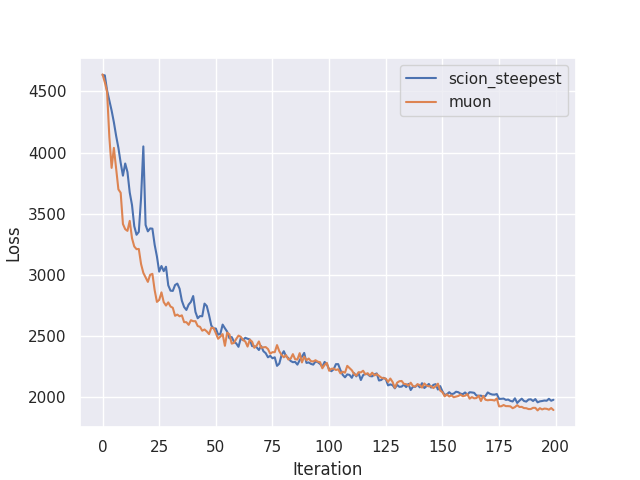
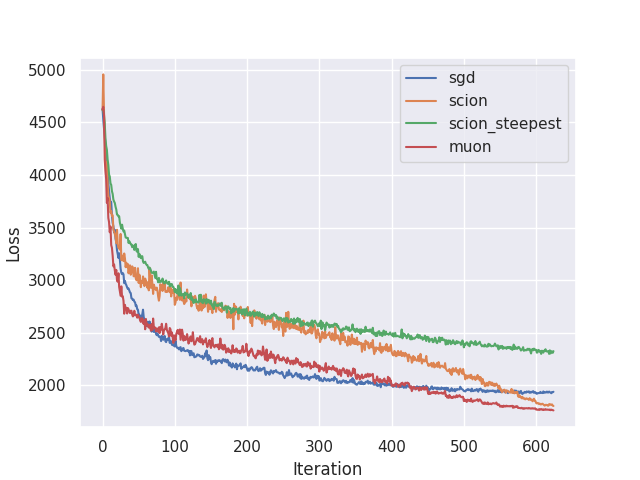
checkpoint before fix buf and grad mismatch

diff --git a/examples/airbench/airbench_scion.py b/examples/airbench/airbench_scion.py
@@ -363,7 +363,7 @@ def evaluate(model, loader, tta_level=0):
 #                Training                  #
 ############################################
 
-def main(run, model_trainbias, model_freezebias, extra_params, optimizer_name="scion_steepest", radius=8.0):
+def main(run, model_trainbias, model_freezebias, extra_params, optimizer_name="scion_steepest", radius=8.0, constant_ratio=0.5, do_plot=False):
     batch_size = hyp['opt']['batch_size']
     epochs = hyp['opt']['train_epochs']
     #momentum = hyp['opt']['momentum']
@@ -440,16 +440,26 @@ def main(run, model_trainbias, model_freezebias, extra_params, optimizer_name="s
 
             return torch.optim.lr_scheduler.LambdaLR(optimizer, lr_lambda)
 
-        # Make learning rate schedulers for all 5 optimizers
         def get_lr(step):
             return 1 - step / total_train_steps
-        scheduler_trainbias = torch.optim.lr_scheduler.LambdaLR(optimizer_trainbias, get_lr)
-        scheduler2_trainbias = torch.optim.lr_scheduler.LambdaLR(optimizer2_trainbias, get_lr)
-        scheduler_freezebias = torch.optim.lr_scheduler.LambdaLR(optimizer_freezebias, get_lr)
 
-        # scheduler_trainbias = custom_scheduler(optimizer_trainbias, warmup_steps=int(0.3 * total_train_steps), constant_steps=int(0.4 * total_train_steps),  total_steps=total_train_steps)
-        # scheduler2_trainbias = custom_scheduler(optimizer2_trainbias, warmup_steps=int(0.3 * total_train_steps), constant_steps=int(0.4 * total_train_steps),  total_steps=total_train_steps)
-        # scheduler_freezebias = custom_scheduler(optimizer_freezebias, warmup_steps=int(0.3 * total_train_steps), constant_steps=int(0.4 * total_train_steps),  total_steps=total_train_steps)
+        if optimizer_name == "scion_steepest":
+            # scheduler_trainbias = torch.optim.lr_scheduler.LambdaLR(optimizer_trainbias, get_lr)
+            # scheduler2_trainbias = torch.optim.lr_scheduler.LambdaLR(optimizer2_trainbias, get_lr)
+            # scheduler_freezebias = torch.optim.lr_scheduler.LambdaLR(optimizer_freezebias, get_lr)
+
+            warmup_steps = 2 * len(train_loader)
+            constant_steps = int(constant_ratio * total_train_steps)
+
+            scheduler_trainbias = custom_scheduler(optimizer_trainbias, warmup_steps=warmup_steps, constant_steps=constant_steps,  total_steps=total_train_steps)
+            scheduler2_trainbias = custom_scheduler(optimizer2_trainbias, warmup_steps=warmup_steps, constant_steps=constant_steps,  total_steps=total_train_steps)
+            scheduler_freezebias = custom_scheduler(optimizer_freezebias, warmup_steps=warmup_steps, constant_steps=constant_steps,  total_steps=total_train_steps)
+
+        else:
+            scheduler_trainbias = torch.optim.lr_scheduler.LambdaLR(optimizer_trainbias, get_lr)
+            scheduler2_trainbias = torch.optim.lr_scheduler.LambdaLR(optimizer2_trainbias, get_lr)
+            scheduler_freezebias = torch.optim.lr_scheduler.LambdaLR(optimizer_freezebias, get_lr)
+
 
 
     else:
@@ -497,6 +507,7 @@ def main(run, model_trainbias, model_freezebias, extra_params, optimizer_name="s
 
     loss_history = []
     dual_norm_history = []
+    precond_norm_history = []
 
 
     for epoch in range(ceil(epochs)):
@@ -524,6 +535,7 @@ def main(run, model_trainbias, model_freezebias, extra_params, optimizer_name="s
         starter.record()
 
         dual_norm_epoch = 0.
+        precond_norm_epoch = 0.
 
         model.train()
         for inputs, labels in train_loader:
@@ -537,13 +549,15 @@ def main(run, model_trainbias, model_freezebias, extra_params, optimizer_name="s
                 opt.step()
                 sched.step()
                 if isinstance(opt, ScionSteepest):
-                    dual_norm_epoch += opt.preconditioner_norm.item()
+                    precond_norm_epoch += opt.preconditioner_norm.item()
+                    dual_norm_epoch += opt.dual_norm.item()
 
             current_steps += 1
             if current_steps >= total_train_steps:
                 break
 
         dual_norm_history.append(dual_norm_epoch / len(train_loader))
+        precond_norm_history.append(precond_norm_epoch / len(train_loader))
 
 
         ender.record()
@@ -565,12 +579,24 @@ def main(run, model_trainbias, model_freezebias, extra_params, optimizer_name="s
     #  TTA Evaluation  #
     ####################
 
-    if optimizer_name == "scion_steepest":
-        plt.plot(range(len(dual_norm_history)), np.array(dual_norm_history))
-        plt.xlabel("Epoch")
-        plt.ylabel("Value")
-        plt.title("Preconditioner norm value")
-        plt.savefig("./plots/precond_norm.png")
+    if optimizer_name == "scion_steepest" and do_plot:
+        fig, (ax1, ax2) = plt.subplots(1, 2, figsize=(12, 4))
+        
+        epochs_range = range(len(dual_norm_history))
+        
+        ax1.plot(epochs_range, dual_norm_history)
+        ax1.set_xlabel("Epoch")
+        ax1.set_ylabel("Value")
+        ax1.set_title("Dual norm")
+        
+        ax2.plot(epochs_range, precond_norm_history)
+        ax2.set_xlabel("Epoch")
+        ax2.set_ylabel("Value")
+        ax2.set_title("Preconditioner norm")
+        
+        plt.tight_layout()
+        plt.savefig(f"./plots/dual_and_precond_norm_stepratio.png")
+        plt.clf()
 
     starter.record()
     tta_val_acc = evaluate(model, test_loader, tta_level=hyp['net']['tta_level'])
@@ -627,8 +653,8 @@ if __name__ == "__main__":
             return acc
         
         #for log2lr in np.linspace(-9, 0, 10):
-        log2lr =math.log2(0.05)
-        momentum = 0.6
+        log2lr = math.log2(0.05)
+        momentum = 0.9 # 0.6
 
 
         sgd_params = {
@@ -643,8 +669,9 @@ if __name__ == "__main__":
 
         }
         scion_steepest_params = {
-            "lr":5*1e-4,
-            "momentum": momentum
+            "lr":1e-5,
+            "momentum": momentum,
+            "eps":1e-6
 
         }
 
@@ -654,19 +681,34 @@ if __name__ == "__main__":
             "scion_steepest":scion_steepest_params
         }
 
-        for optim in optimizers.keys():
+        epsilons = [1]
+        betas = [0.1 * i for i in range(10)]
 
-            print(f"{'='*30} {optim} {'='*30}")
-            accs, loss_history = main(1, model_trainbias, model_freezebias, extra_params=optimizers[optim], optimizer_name=optim)
+        reset_values = [25, 50, 100, 250, 500, 1000]
 
-        #     plt.plot(range(len(loss_history)), loss_history, label=optim)
+        for reset_every in reset_values:
 
-        # loss_muon = np.load("./loss/muon_loss.npy")
+            optim = "scion_steepest"
+            eps = epsilons[0]
+            optimizers[optim]["eps"] =
+            optimizers[optim]["use_bias_correction"] = eps < 1
+            optimizers[optim]["reset_buffer_iter"] = reset_every
+            # optimizers[optim]["beta_LR"] = beta
+
+            print(f"{'='*30}, reset_every={reset_every} {'='*30}")
+            accs, loss_history = main(1, model_trainbias, model_freezebias, extra_params=optimizers[optim], optimizer_name=optim, constant_ratio=0.3, do_plot=False)
+
+            plt.plot(range(len(loss_history)), loss_history, label=f"T={reset_every}")
+            
+
+        # loss_muon = np.load("./loss/muon_loss_25.npy")
         # plt.plot(range(len(loss_muon)), loss_muon, label="muon")
 
-        # plt.legend(loc="upper right")
-        # plt.xlabel("Iteration")
-        # plt.ylabel("Loss")
-        # plt.savefig("./plots/loss.png")
+        # plt.title(r"$\beta$ value")
+        plt.legend(loc="upper right")
+        plt.xlabel("Iteration")
+        plt.ylabel("Loss")
+        plt.savefig(f"./plots/loss_reset_every.png")
+        plt.clf()
 
 

diff --git a/examples/airbench/scion_LR.py b/examples/airbench/scion_LR.py
@@ -256,7 +256,7 @@ class ScionSteepest(torch.optim.Optimizer):
         >>> optimizer = Scion(optim_groups, lr=2**-12, momentum=0.1)
     """
     def __init__(self, params, lr=1e-3, momentum=1.0, norm: str='Auto', norm_kwargs: dict=None, scale=1.0, unconstrained=False,
-    op="hadamard", beta_LR=0.999, order=4, eps=1e-8):
+    op="hadamard", beta_LR=0.999, order=4, eps=1e-8, use_bias_correction=True, reset_buffer_iter=250):
         if lr < 0.0:
             raise ValueError(f"Invalid learning rate: {lr}")
         if momentum < 0.0:
@@ -264,7 +264,7 @@ class ScionSteepest(torch.optim.Optimizer):
         if norm_kwargs is None:
             norm_kwargs = {}
         defaults = dict(lr=lr, momentum=momentum, scale=scale, unconstrained=unconstrained, norm=norm, norm_kwargs=norm_kwargs,
-        op=op, beta_LR=beta_LR, order=order, eps=eps)
+        op=op, beta_LR=beta_LR, order=order, eps=eps, use_bias_correction=use_bias_correction, reset_buffer_iter=reset_buffer_iter)
         super().__init__(params, defaults)
         self.dual_norm = 0.
         self.preconditioner_norm = 0.
@@ -280,25 +280,37 @@ class ScionSteepest(torch.optim.Optimizer):
             order = group["order"]
             beta_LR = group["beta_LR"]
             eps = group["eps"]
+            use_bias_correction = group["use_bias_correction"]
+            reset_buffer_iter = group["reset_buffer_iter"]
+
             for p in group['params']:
                 g = p.grad
                 if g is None:
                     continue
                 state = self.state[p]
 
-                if momentum != 1:
+                if "plot_name" not in state:
+                    state["plot_name"] = f"param_{id(p)}"
+
+
+                if "step" not in state:
+                    state["step"] = 0
+                state["step"] += 1
+                iter_number = state["step"]
+
+                if momentum != 0:
                     if 'momentum_buffer' not in state.keys():
                         state['momentum_buffer'] = torch.clone(g)
                     buf = state['momentum_buffer']
-                    buf.mul_(1-momentum).add_(g, alpha=momentum)
+                    buf.mul_(momentum).add_(g, alpha=1. - momentum)
                     g = buf
 
                 g_2d = to_2d(g).float()
 
                 if "L_buffer" not in state.keys():
                     if op == "hadamard":
-                        state["L_buffer"] =  torch.ones_like(g_2d)
-                        state["R_buffer"] = torch.ones_like(g_2d)
+                        state["L_buffer"] =  eps * torch.ones_like(g_2d)
+                        state["R_buffer"] =  eps * torch.ones_like(g_2d)
                     
                         # state["L_buffer"].copy_(g_2d * g_2d + 1e-4)
                     else: # dot
@@ -309,22 +321,29 @@ class ScionSteepest(torch.optim.Optimizer):
                 L = state["L_buffer"]
                 R = state["R_buffer"]
 
+
+                # reset buffer
+                if iter_number % reset_buffer_iter == 0:
+                    L = torch.min(L) * torch.ones_like(L)
+
                 self.preconditioner_norm = torch.linalg.norm(L, 'fro')
 
-                # D_inv = 1. / (L + 1e-4)
-                # scaled_G = D_inv * g_2d
+                # if iter_number % 100 == 0:
 
-                # print(f"g_2d stats: min={g_2d.min():.4f} max={g_2d.max():.4f} nan={g_2d.isnan().any()}")
-                # print(f"L stats:    min={L.min():.6f} max={L.max():.6f} nan={L.isnan().any()}, norm={torch.linalg.norm(L, 'fro')}")
-                # print(f"D_inv stats: min={D_inv.min():.2f} max={D_inv.max():.2f} nan={D_inv.isnan().any()}")
-                # print(f"scaled_G stats: min={scaled_G.min():.2f} max={scaled_G.max():.2f} nan={scaled_G.isnan().any()}")
-                # lmo_out = norm_backend.lmo(scaled_G)
-                # print(f"lmo_out stats: min={lmo_out.min():.4f} max={lmo_out.max():.4f} nan={lmo_out.isnan().any()}")
+                #     import matplotlib.pyplot as plt
+                #     import numpy as np
+                #     import seaborn as sns
+
+                #     to_plot = L.cpu().detach().numpy()
+                #     sns.heatmap(to_plot)
+                #     plt.title(f"iter number = {iter_number}")
+                #     plt.savefig(f"./plots/P_{state['plot_name']}_{group['norm']}_{iter_number}.png")
+                #     plt.clf()
 
 
 
                 if op == "dot":
-                    L.mul_(beta_LR).add_(g_2d.matmul(g_2d.T), alpha=1 - beta_LR)
+                    L.mul_(beta_LR).add_(g_2d.matmul(g_2d.T), alpha=1 - beta_LR)#.div_(L.sum())
                     R.mul_(beta_LR).add_(g_2d.T.matmul(g_2d), alpha=1 - beta_LR)
 
                 else:
@@ -333,13 +352,25 @@ class ScionSteepest(torch.optim.Optimizer):
 
 
                 if op == "hadamard":
-                    lmo_ = weighted_norm_D_lmo(norm_backend, g_2d, L.sqrt(), eps)
-                    dual_norm = (lmo_ * g_2d).sum()
+                    bias_correction_M = 1. if not use_bias_correction else (1. - momentum**iter_number)
+                    bias_correction_P = 1. if not use_bias_correction else (1. - beta_LR**iter_number)
+
+                    m_hat = g_2d / bias_correction_M
+                    p_hat = L.sqrt() / bias_correction_P**0.5
+
+                    lmo_ = weighted_norm_D_lmo(norm_backend, m_hat, p_hat, 1e-8)
+                    dual_norm = (lmo_ * m_hat).sum()
                     self.dual_norm = dual_norm
                     update = scale * lmo_ * dual_norm
+
+                    # print(f"{'='*30} Iter number {iter_number} {'='*30}")
+                    # print(f"m_hat: min={m_hat.min()}, max={m_hat.max()}")
+                    # print(f"p_hat: min={p_hat.min()}, max={p_hat.max()}")
+                    # print(f"lmo output: min={lmo_.min()}, max={lmo_.max()}")
+                    # print(f"dual_norm: {dual_norm}")
                 else:
                     self.dual_norm = 0.
-                    update = scale / (L.sum()) * weighted_norm_LR_lmo(norm_backend, g_2d, L, R, order=order)
+                    update = scale * weighted_norm_LR_lmo(norm_backend, g_2d, L, R, order=order)
                 update = update.reshape(g.shape)
 
                 if not unconstrained:

diff --git a/examples/airbench/airbench_muon.py b/examples/airbench/airbench_muon.py
@@ -46,7 +46,7 @@ hyp = {
     },
     'opt': {
         'svd_backend': 'newton',
-        'train_epochs': 8,
+        'train_epochs': 25,
         'batch_size': 2000,
         'lr': 6.5,                 # learning rate per 1024 examples
         'momentum': 0.85,
@@ -610,4 +610,4 @@ if __name__ == "__main__":
     main('warmup', model_trainbias, model_freezebias)
     accs, loss = main("train", model_trainbias, model_freezebias)
 
-    np.save("./loss/muon_loss.npy", loss)
+    np.save("./loss/muon_loss_25.npy", loss)